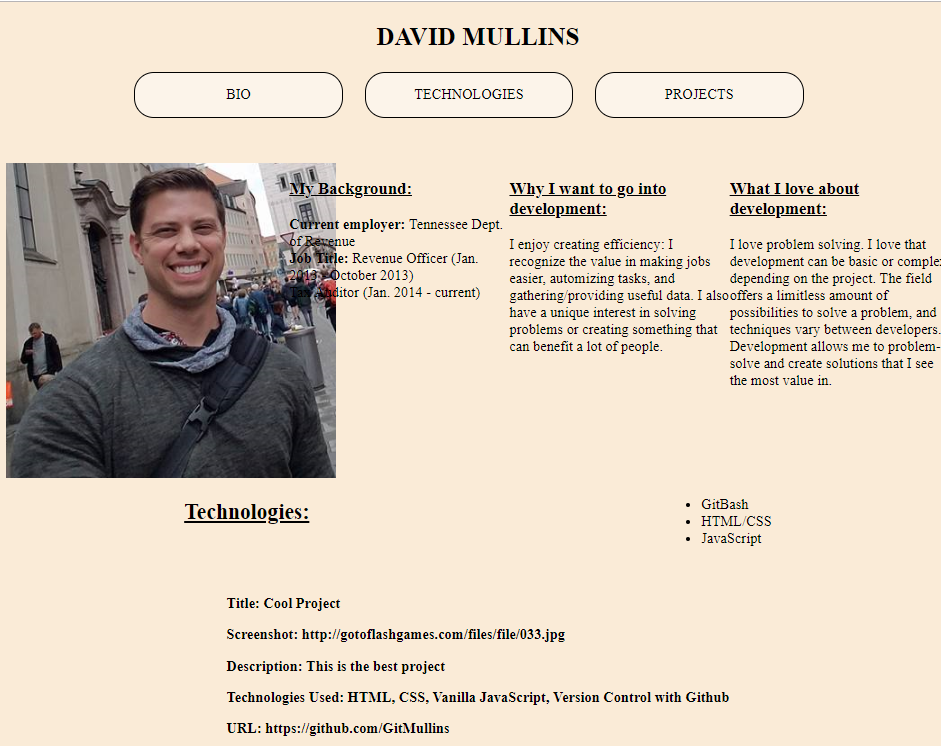
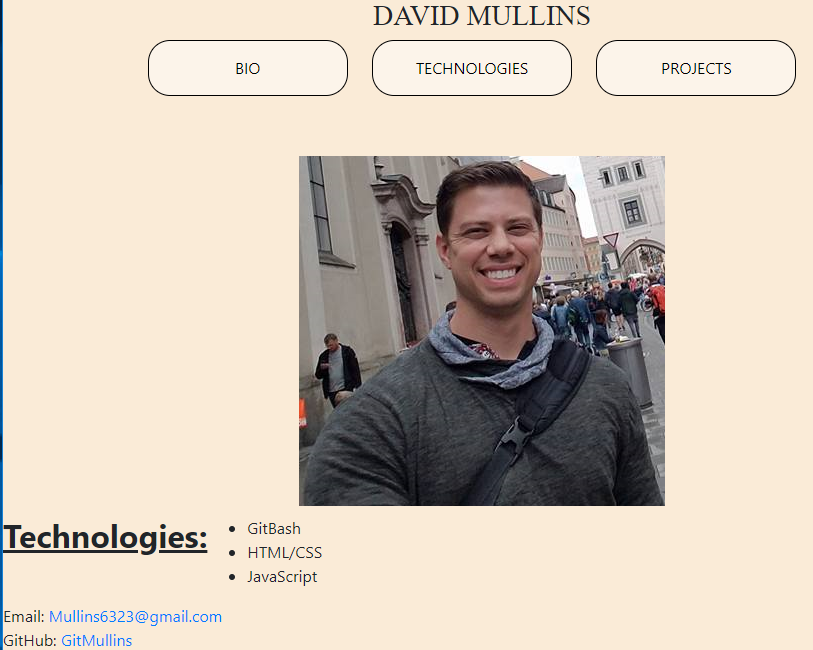
readme and screenshot update

diff --git a/projects.js b/projects.js
@@ -42,22 +42,29 @@ const projectsClick = () => {
     }
     printToDom('projectsFill', domString);
     if (document.getElementById('bioPage')){
-    remove('bioPage');};
+    remove('bioPage');
+    remove('bioPage');
+    remove('bioPage');
+    };
     if (document.getElementById('technologiesPage')){
     remove('technologiesPage');};
 }
 };
 
 const bioClick = () => {
-    let message = `<div class='card' id='bioPage'>
-    <h3><u><b>My Background:</b></u></h3>
+    let message = `<div id="bioPage" class="card col-3" style="width: 36rem;">
+    <h3 class="card-title"><u><b>My Background:</b></u></h3>
     <b>Current employer:</b> Tennessee Dept. of Revenue<br>
     <b>Job Title:</b> Tax Auditor (Nov. 2014 - current)<br>
     Revenue Officer (Jan. 2013 - October 2013)<br>
-    <h3><u><b>What I love about development:</b></u></h3>
-    I love problem solving, and I love that development can be basic or complex depending on the project. The field offers a limitless amount of possibilities to solve a problem, and techniques vary between developers. Development allows me to problem-solve and create solutions that I see the most value in.
-    <h3><u><b>Why I want to go into development:</b></u></h3>
-    I enjoy creating efficiency: I recognize the value in making jobs easier, automatized tasks, and gathering/providing useful data. I also have a unique interest in solving problems or creating something that can benefit a lot of people. <br> 
+    </div>
+    <div id="bioPage" class="card col-3" style="width: 36rem;">
+    <h3 class="card-title"><u><b>What I love about development:</b></u></h3>
+    <p class="card-text">I love problem solving, and I love that development can be basic or complex depending on the project. The field offers a limitless amount of possibilities to solve a problem, and techniques vary between developers. Development allows me to problem-solve and create solutions that I see the most value in.</p>
+    </div>
+    <div id="bioPage" class="card col-3" style="width: 36rem;">
+    <h3 class="card-title"><u><b>Why I want to go into development:</b></u></h3>
+    <p class="card-text">I enjoy creating efficiency: I recognize the value in making jobs easier, automatized tasks, and gathering/providing useful data. I also have a unique interest in solving problems or creating something that can benefit a lot of people.</p>
     </div>`;
         printToDom('bioFill', message);
         if (document.getElementById('technologiesPage')){
@@ -78,7 +85,10 @@ const techClick = () => {
         if (document.getElementById('projectsPage')){
         remove('projectsPage');};
         if (document.getElementById('bioPage')){
-        remove('bioPage');};
+        remove('bioPage');
+        remove('bioPage');
+        remove('bioPage');
+        };
 };
 
 

diff --git a/index.html b/index.html
@@ -24,35 +24,32 @@
   <!-- End Navigation -->
 
   <!-- Primary View -->
-  <div class="fullPage">
-    <div class='card'>
-      <img src='./Me.png'></img>
+  <div class="fullPage container">
+
+      <!-- <div class="card" style="width: 36rem;"> -->
+        <img src="./Me.png" class="rounded mx-auto d-block" alt="...">
+      <!-- </div> -->
     </div>
 
-    <div id='bioFill'></div>
+    <div class="container"><div id="bioFill" class="row"></div></div>
 
     <div id='techFill'></div>
 
     <div id="projectsFill"></div>
 
-    </div>
+  </div>
 
   <!-- End Primary View -->
 
-  <!-- Footer -->
   <footer class="page-footer">
+
         Email: <a href="mailto:Mullins6323@gmail.com" target="_blank">Mullins6323@gmail.com</a><br>
-        GitHub:<a href="https://github.com/GitMullins">GitMullins</a>
+        GitHub: <a href="https://github.com/GitMullins">GitMullins</a>
   </footer>
-  <!-- End Footer -->
-  <script src='projects.js'></script>
-  <!-- <script src="https://code.jquery.com/jquery-3.3.1.slim.min.js" integrity="sha384-q8i/X+965DzO0rT7abK41JStQIAqVgRVzpbzo5smXKp4YfRvH+8abtTE1Pi6jizo" crossorigin="anonymous"></script>
+
+<script src="https://code.jquery.com/jquery-3.3.1.slim.min.js" integrity="sha384-q8i/X+965DzO0rT7abK41JStQIAqVgRVzpbzo5smXKp4YfRvH+8abtTE1Pi6jizo" crossorigin="anonymous"></script>
 <script src="https://cdnjs.cloudflare.com/ajax/libs/popper.js/1.14.7/umd/popper.min.js" integrity="sha384-UO2eT0CpHqdSJQ6hJty5KVphtPhzWj9WO1clHTMGa3JDZwrnQq4sF86dIHNDz0W1" crossorigin="anonymous"></script>
-<script src="https://stackpath.bootstrapcdn.com/bootstrap/4.3.1/js/bootstrap.min.js" integrity="sha384-JjSmVgyd0p3pXB1rRibZUAYoIIy6OrQ6VrjIEaFf/nJGzIxFDsf4x0xIM+B07jRM" crossorigin="anonymous"></script> -->
-<!-- <script>
-document.getElementById('navToBio').addEventListener('click', bioClick);
-
-</script> -->
-
+<script src="https://stackpath.bootstrapcdn.com/bootstrap/4.3.1/js/bootstrap.min.js" integrity="sha384-JjSmVgyd0p3pXB1rRibZUAYoIIy6OrQ6VrjIEaFf/nJGzIxFDsf4x0xIM+B07jRM" crossorigin="anonymous"></script>
+<script src='projects.js'></script>
 </body>
 </html>

diff --git a/README.md b/README.md
@@ -13,7 +13,7 @@ $ git clone https://github.com/GitMullins/personal-bio-site
 $ npm install -g http-server
 ```
 ## Running
-Browse to pie directory and run http server  
+Browse to personal-bio-site directory and run http server  
 ```
 $ hs -p 5000
 ```
